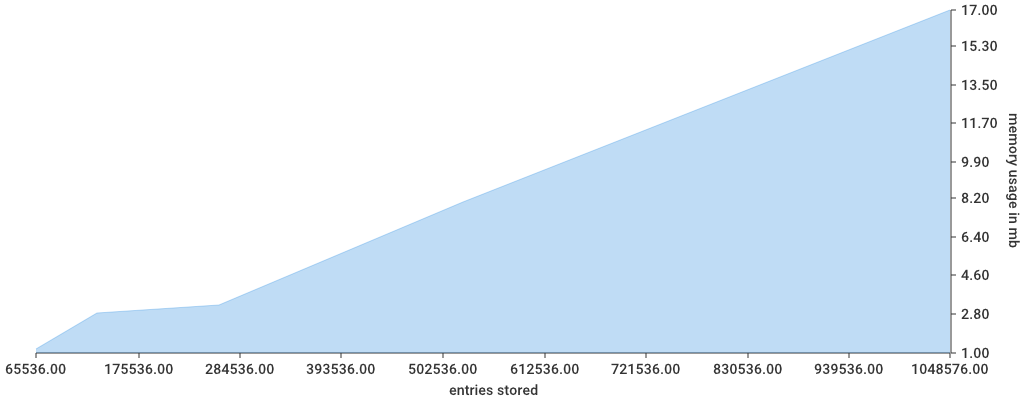
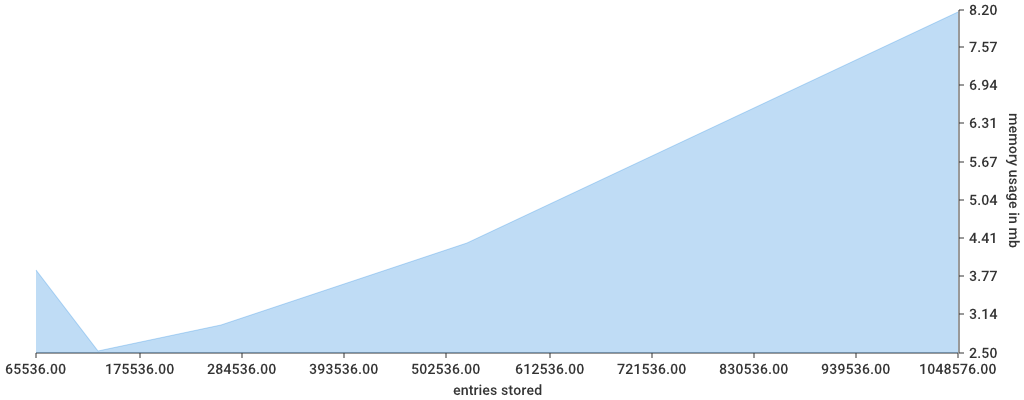
reduced probabilistic memory usage

Changed region(s): [[0.0312, 0.09, 0.875, 0.87], [0.0938, 0.0, 0.9688, 0.99]]

diff --git a/dejavu.go b/dejavu.go
@@ -13,6 +13,8 @@ import (
 	"sync"
 )
 
+// FIXME use io.Reader and io.Writer where possible
+
 // DejaVu witnesses data and recalls if seen before.
 type DejaVu interface {
 
@@ -77,12 +79,15 @@ func (d *deterministic) Witness(data []byte) bool {
 // PROBABILISTIC IMPLEMENTATION //
 //////////////////////////////////
 
+const liveFilterCnt = 8
+const totalFilterCnt = liveFilterCnt + 1
+
 type probabilistic struct {
-	filters            [2]*bloom.BloomFilter // alternatingly replaced when maxed
-	entrieLimit        uint32                // filter size
-	falsePositiveRatio float64               // remember for buffer switch
-	index              int                   // current filter index
-	entries            uint32                // entries in currently indexed filter
+	filters            []*bloom.BloomFilter
+	entrieLimit        uint32  // filter size
+	falsePositiveRatio float64 // remember for buffer switch
+	index              int     // current filter index
+	entries            uint32  // entries in currently indexed filter
 	mutex              *sync.Mutex
 }
 
@@ -90,10 +95,13 @@ type probabilistic struct {
 // most recent entries within given entrie limit and false positive ratio.
 // False positive ratio should be between 0.0 and 1.0.
 func NewProbabilistic(entrieLimit uint32, falsePositiveRatio float64) DejaVu {
-	a := bloom.NewWithEstimates(uint(entrieLimit), falsePositiveRatio)
-	b := bloom.NewWithEstimates(uint(entrieLimit), falsePositiveRatio)
+	filters := make([]*bloom.BloomFilter, totalFilterCnt, totalFilterCnt)
+	for i := 0; i < totalFilterCnt; i++ {
+		fl := uint(entrieLimit / liveFilterCnt)
+		filters[i] = bloom.NewWithEstimates(fl, falsePositiveRatio)
+	}
 	return &probabilistic{
-		filters:            [2]*bloom.BloomFilter{a, b},
+		filters:            filters,
 		entrieLimit:        entrieLimit,
 		falsePositiveRatio: falsePositiveRatio,
 		index:              0,
@@ -107,17 +115,21 @@ func (p *probabilistic) WitnessDigest(digest [sha256.Size]byte) bool {
 
 	// check if exists
 	d := digest[:]
-	familiar := p.filters[0].Test(d) || p.filters[1].Test(d)
+	familiar := false
+	for _, f := range p.filters {
+		familiar = familiar || f.Test(d)
+	}
 
 	// always add in case its from the old buffer
 	p.filters[p.index].Add(d)
 	p.entries++
 
 	// switch buffers if current is maxed
-	if p.entries >= p.entrieLimit {
+	if p.entries >= (p.entrieLimit / liveFilterCnt) {
 		p.entries = 0
-		p.index = (p.index + 1) % 2
-		f := bloom.NewWithEstimates(uint(p.entrieLimit), p.falsePositiveRatio)
+		p.index = (p.index + 1) % len(p.filters)
+		fl := uint(p.entrieLimit / liveFilterCnt)
+		f := bloom.NewWithEstimates(fl, p.falsePositiveRatio)
 		p.filters[p.index] = f // replace old filter
 	}
 
